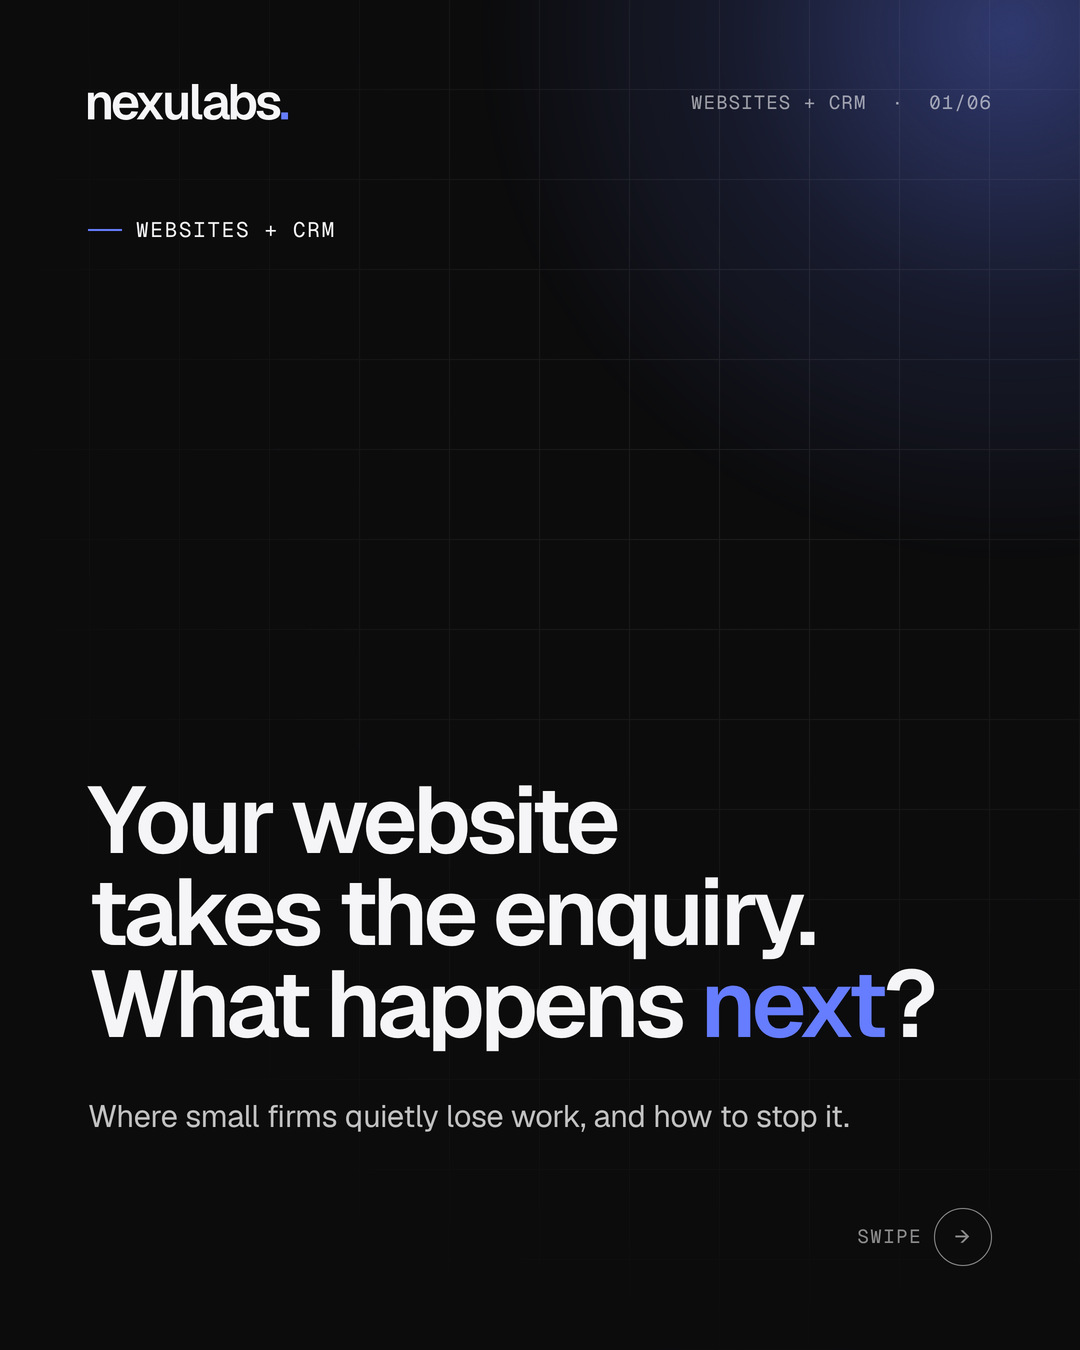
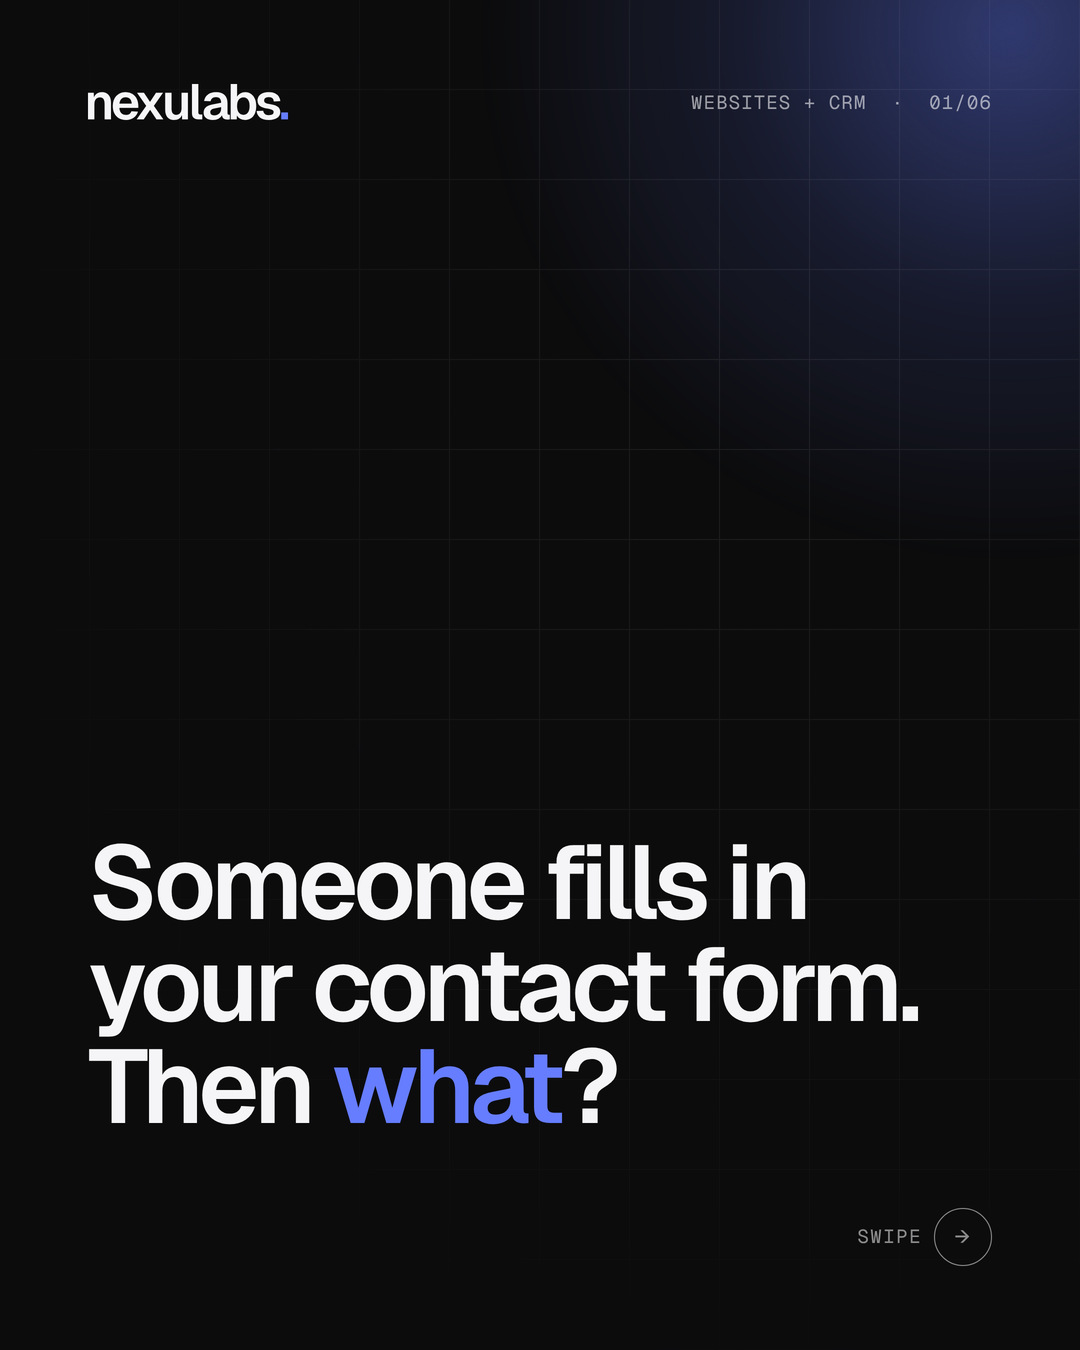
Add 'sound like a person' rules; rewrite website-to-CRM draft; optional kickers
Claude-Session: https://claude.ai/code/session_015dF8thABf1mZR5gke8dfEs

Changed region(s): [[0.0917, 0.56, 0.8861, 0.84], [0.1222, 0.1556, 0.2139, 0.1867], [0.275, 0.1556, 0.3056, 0.1867]]

diff --git a/render.py b/render.py
@@ -185,10 +185,15 @@ def frame(slide, idx, total, series, inner, foot_left="", foot_right=""):
     return f"""<section class="s {theme} {slide['type']}">
 {glow}<div class="grid"></div>
 <div class="top"><div class="mark">{logo(theme)}</div>
-<div class="meta">{html.escape(series)} &nbsp;·&nbsp; {idx:02d}/{total:02d}</div></div>
+<div class="meta">{html.escape(series)}{f" &nbsp;·&nbsp; {idx:02d}/{total:02d}" if total > 1 else ""}</div></div>
 <div class="body">{inner}</div>
 <div class="foot"><div class="src">{foot_left}</div><div>{foot_right}</div></div>
 <div class="grain"></div></section>"""
+
+
+def kick(slide):
+    k = slide.get("kicker")
+    return f'<div class="kicker" style="margin-top:96px">{md(k)}</div>' if k else '<div style="height:96px"></div>'
 
 
 def src(slide):
@@ -200,7 +205,7 @@ def build(slide, idx, total, series):
     t = slide["type"]
     fr = ""
     if t == "cover":
-        inner = f"""<div class="kicker" style="margin-top:96px">{md(slide.get('kicker',''))}</div>
+        inner = f"""{kick(slide)}
 <h1 style="font-size:{slide.get('size',112)}px">{md(slide['headline'])}</h1>
 {f'<p class="lead">{md(slide["sub"])}</p>' if slide.get('sub') else ''}<div style="height:70px"></div>"""
         fr = '<div class="swipe">Swipe <b>→</b></div>' if total > 1 else ""
@@ -208,7 +213,7 @@ def build(slide, idx, total, series):
         v = html.escape(slide["value"])
         m = re.match(r"^([^%x+£$]*)([%x+]?)$", v)
         num, suf = (m.group(1), m.group(2)) if m else (v, "")
-        inner = f"""<div class="kicker" style="margin-top:96px">{md(slide.get('kicker',''))}</div>
+        inner = f"""{kick(slide)}
 <div class="big" style="font-size:{slide.get('size',400)}px">{num}{f'<small class="acc">{suf}</small>' if suf else ''}</div>
 <h2>{md(slide['statement'])}</h2>
 {f'<p class="lead">{md(slide["detail"])}</p>' if slide.get('detail') else ''}<div style="height:56px"></div>"""
@@ -221,7 +226,7 @@ def build(slide, idx, total, series):
             f'<div class="col{" hl" if str(k)==str(hl) else ""}"><div class="v">{v}{unit}</div>'
             f'<div class="bar" style="height:{v/mx*82:.1f}%"></div></div>' for k, v in data)
         xl = "".join(f"<div>{html.escape(str(k))}</div>" for k, _ in data)
-        inner = f"""<div class="kicker" style="margin-top:96px">{md(slide.get('kicker',''))}</div>
+        inner = f"""{kick(slide)}
 <h2>{md(slide['title'])}</h2>
 <div class="chart">{cols}</div><div class="xl">{xl}</div><div style="height:56px"></div>"""
     elif t == "hbars":
@@ -232,19 +237,19 @@ def build(slide, idx, total, series):
         rows = "".join(
             f'<div class="row{" hl" if k==hl else ""}"><div class="lab"><span>{html.escape(k)}</span><b>{v}{unit}</b></div>'
             f'<div class="track"><div class="fill" style="width:{v/mx*100:.1f}%"></div></div></div>' for k, v in data)
-        inner = f"""<div class="kicker" style="margin-top:96px">{md(slide.get('kicker',''))}</div>
+        inner = f"""{kick(slide)}
 <h2>{md(slide['title'])}</h2><div class="hb">{rows}</div><div style="height:56px"></div>"""
     elif t == "list":
         items = "".join(
             f'<div class="it"><div class="n">{i+1:02d}</div><div><h3>{md(a)}</h3>'
             f'{f"<p>{md(b)}</p>" if b else ""}</div></div>' for i, (a, b) in enumerate(slide["items"]))
-        inner = f"""<div class="kicker" style="margin-top:96px">{md(slide.get('kicker',''))}</div>
+        inner = f"""{kick(slide)}
 <h2>{md(slide['title'])}</h2><div class="items">{items}</div><div style="height:40px"></div>"""
     elif t == "quote":
         inner = f"""<div class="qm" style="margin-top:auto">“</div><h1>{md(slide['text'])}</h1>
 {f'<p class="lead">{md(slide["sub"])}</p>' if slide.get('sub') else ''}<div style="height:70px"></div>"""
     elif t == "cta":
-        inner = f"""<div class="kicker" style="margin-top:96px">{md(slide.get('kicker',''))}</div>
+        inner = f"""{kick(slide)}
 <h1 style="font-size:{slide.get('size',100)}px">{md(slide['headline'])}</h1>
 {f'<p class="lead">{md(slide["body"])}</p>' if slide.get('body') else ''}
 <div class="ctabox"><div><div class="l">{md(slide.get('cta_label','Talk to us'))}</div>
@@ -254,7 +259,7 @@ def build(slide, idx, total, series):
         def card(c, cls, label, ic):
             sm = f'<div class="sm">{md(c[1])}</div>' if len(c) > 1 and c[1] else ""
             return f'<div class="card {cls}"><div class="lb"><span class="ico">{ic}</span>{label}</div><div class="tx">{md(c[0])}</div>{sm}</div>'
-        inner = f"""<div class="kicker" style="margin-top:96px">{md(slide.get('kicker',''))}</div>
+        inner = f"""{kick(slide)}
 <h2>{md(slide['title'])}</h2><div class="cmp">{card(bad,'bad',slide.get('instead_label','Instead of'),'×')}{card(good,'good',slide.get('try_label','Try'),'✓')}</div><div style="height:48px"></div>"""
     elif t == "browser":
         site = slide["site"]
@@ -262,7 +267,7 @@ def build(slide, idx, total, series):
         pos = [("top:20px;right:24px", 0), ("top:118px;right:24px", 1), ("top:300px;right:24px", 2), ("bottom:24px;right:24px", 3)]
         pin_html = "".join(f'<div class="pin" style="{pos[i][0]}">{i+1:02d}</div>' for i in range(min(len(pins), 4)))
         legend = "".join(f'<div><b>{i+1:02d}</b><span>{md(x)}</span></div>' for i, x in enumerate(pins))
-        inner = f"""<div class="kicker" style="margin-top:96px">{md(slide.get('kicker',''))}</div>
+        inner = f"""{kick(slide)}
 <h2>{md(slide['title'])}</h2>
 <div class="bw"><div class="bar"><i></i><i></i><i></i><div class="url">{html.escape(site.get('url','yourbusiness.co.uk'))}</div></div>
 <div class="pg"><div class="nav"><b>{html.escape(site.get('brand','Your Business'))}</b><span><u></u><u></u></span></div>
@@ -274,7 +279,7 @@ def build(slide, idx, total, series):
         steps = "".join(
             f'<div class="st{" hl" if i in hl else ""}"><div class="dot">{i+1:02d}</div><div><h3>{md(a)}</h3>{f"<p>{md(b)}</p>" if b else ""}</div></div>'
             for i, (a, b) in enumerate(slide["steps"]))
-        inner = f"""<div class="kicker" style="margin-top:96px">{md(slide.get('kicker',''))}</div>
+        inner = f"""{kick(slide)}
 <h2>{md(slide['title'])}</h2><div class="fl">{steps}</div><div style="height:40px"></div>"""
     elif t == "palette":
         rows = ""
@@ -282,7 +287,7 @@ def build(slide, idx, total, series):
             cells = "".join(
                 f'<div class="c" style="background:{c[1]};color:{c[2] if len(c)>2 else "#fff"}"><b>{html.escape(c[0])}</b><span>{html.escape(c[1].upper())}</span></div>' for c in row)
             rows += f'<div class="row">{cells}</div>'
-        inner = f"""<div class="kicker" style="margin-top:96px">{md(slide.get('kicker',''))}</div>
+        inner = f"""{kick(slide)}
 <h2>{md(slide['title'])}</h2>{f'<p class="lead" style="margin-top:24px">{md(slide["sub"])}</p>' if slide.get('sub') else ''}<div class="sw">{rows}</div><div style="height:48px"></div>"""
     else:
         raise ValueError(f"unknown slide type {t}")

diff --git a/PLAYBOOK.md b/PLAYBOOK.md
@@ -4,7 +4,7 @@ Followed by the daily scheduled run. One post per day to the Nexulabs Instagram 
 
 ## Brand
 - Business: Nexulabs, "Websites and CRM systems for small businesses" (nexulabs.co.uk). Custom CRMs for enquiries, quotes, jobs and bookings; websites; hosting; domains/email; branding. Based in the North East of England.
-- Voice: UK English. Plain, direct, practical, quietly confident. Short sentences. Address the reader as "you". No hype, no jargon, no emoji in the body (→ arrows are fine), no exclamation marks.
+- Voice: UK English. Plain, direct, practical, like Lee talking to a customer. Short sentences. Address the reader as "you". No hype, no jargon, no emoji, no exclamation marks. See "Sound like a person".
 - Visuals: rendered by `render.py` only. Never use stock photos, scraped images, logos of other companies, or images of real people.
   - Logo: the real Nexulabs wordmark from `brand/nexulabs-logo-white.svg` (render.py recolours it per theme). Never retype the logo as text.
   - Colours (from nexulabs.co.uk): ink #0B0B0C, paper #F5F5F7, accent blue #3B2BFF on light / #667DFF on dark (the logo's full stop). Accent is for one or two words or one data point per slide, never more. No other accent colours.
@@ -26,6 +26,24 @@ Nexulabs posts are about **websites and CRM systems** first. Every post must be 
 
 **Look and feel:** posts must look sharp and visual. Prefer mockups, comparisons, flows and big bold statements over walls of text. Max ~30 words of body copy per slide. Statistics are optional; a strong practical point beats a weak number.
 
+## Sound like a person, not AI (Lee's rule, 6 Nov 2026)
+Posts must read as if Lee wrote them himself. If a line sounds like marketing copy or a chatbot, rewrite it.
+
+**Captions**
+- 40–120 words. Short paragraphs, the way you'd write a message to a customer. Contractions (it's, you'll, don't). Plain words.
+- No bullet lists with arrows or emoji. No bold claims. At most one question, and don't open with a question every time. Vary the first line from post to post.
+- 3–5 hashtags at the very end, lowercase is fine. Never more than 5.
+- Name sources in normal words ("a survey from X this week found…"), not in brackets with full citations.
+- No invented anecdotes, clients or "a customer told us".
+
+**Never use** (captions or slides): unlock, elevate, seamless, game-changer, leverage, streamline, robust, empower, supercharge, transform, journey, landscape, delve, harness, "in today's…", "here's what/how/the thing", "let's dive in", "the truth is", "it's not X, it's Y" / "not just X", "from X to Y" slogans, "ready to…?", "quietly", "impossible to miss", "level up", "next level", "say goodbye to", "the secret", "ever wondered", groups of three adjectives, em dashes (—), "→" bullets, exclamation marks.
+
+**Slides**
+- Write slide text the way people talk: short, specific, a bit dry. One idea per slide.
+- Kicker labels are optional. Use them on one or two slides at most, not every slide.
+- Vary the format: some days a single image, some days 3–5 slides, occasionally 6–7. Only end with the CTA slide about every other post.
+- Rotate layouts so posts don't all look the same: change which slide types you use, and swap ink/paper order.
+
 ## Accuracy rules (non-negotiable)
 - Every number on a slide must come from a source fetched during the run, published within the last ~24 months, preferably UK. Prefer primary sources (gov.uk, ONS, BCC, FSB, Ofcom, Enterprise Nation, vendor research with stated methodology).
 - Put the source on the slide (`source` field) and name it in the caption.
@@ -33,11 +51,7 @@ Nexulabs posts are about **websites and CRM systems** first. Every post must be 
 - Check `log.json` and don't repeat a topic, headline stat or source used in the last 30 days.
 
 ## Caption format
-1. Hook line (the cover's idea in one sentence).
-2. Blank line, 3–5 lines of substance (→ bullets fine), sources named.
-3. One or two lines tying it to what Nexulabs does.
-4. Soft CTA ("Send us a message or visit nexulabs.co.uk").
-5. 6–9 hashtags, mixing broad (#SmallBusinessUK #SME #CRM) and local (#NorthEastBusiness #Sunderland #Newcastle) and topical. Max 2,200 characters.
+Follow "Sound like a person" above. Roughly: an opening line that isn't a cliché, a couple of short paragraphs with the actual point, a light mention of what Nexulabs does (not every time), then 3–5 hashtags. Keep it under 120 words.
 
 ## Slide spec (post.json)
 See `render.py` docstring. Types: cover, stat, bars, hbars, list, quote, cta, compare (instead/try), browser (website mockup with numbered pins), palette (colour swatches), flow (numbered steps). `*word*` = accent. `\n` = line break. Optional: `size` for headline/number size, `glow`, `glow_low`, `highlight`, `unit`, `max`.
